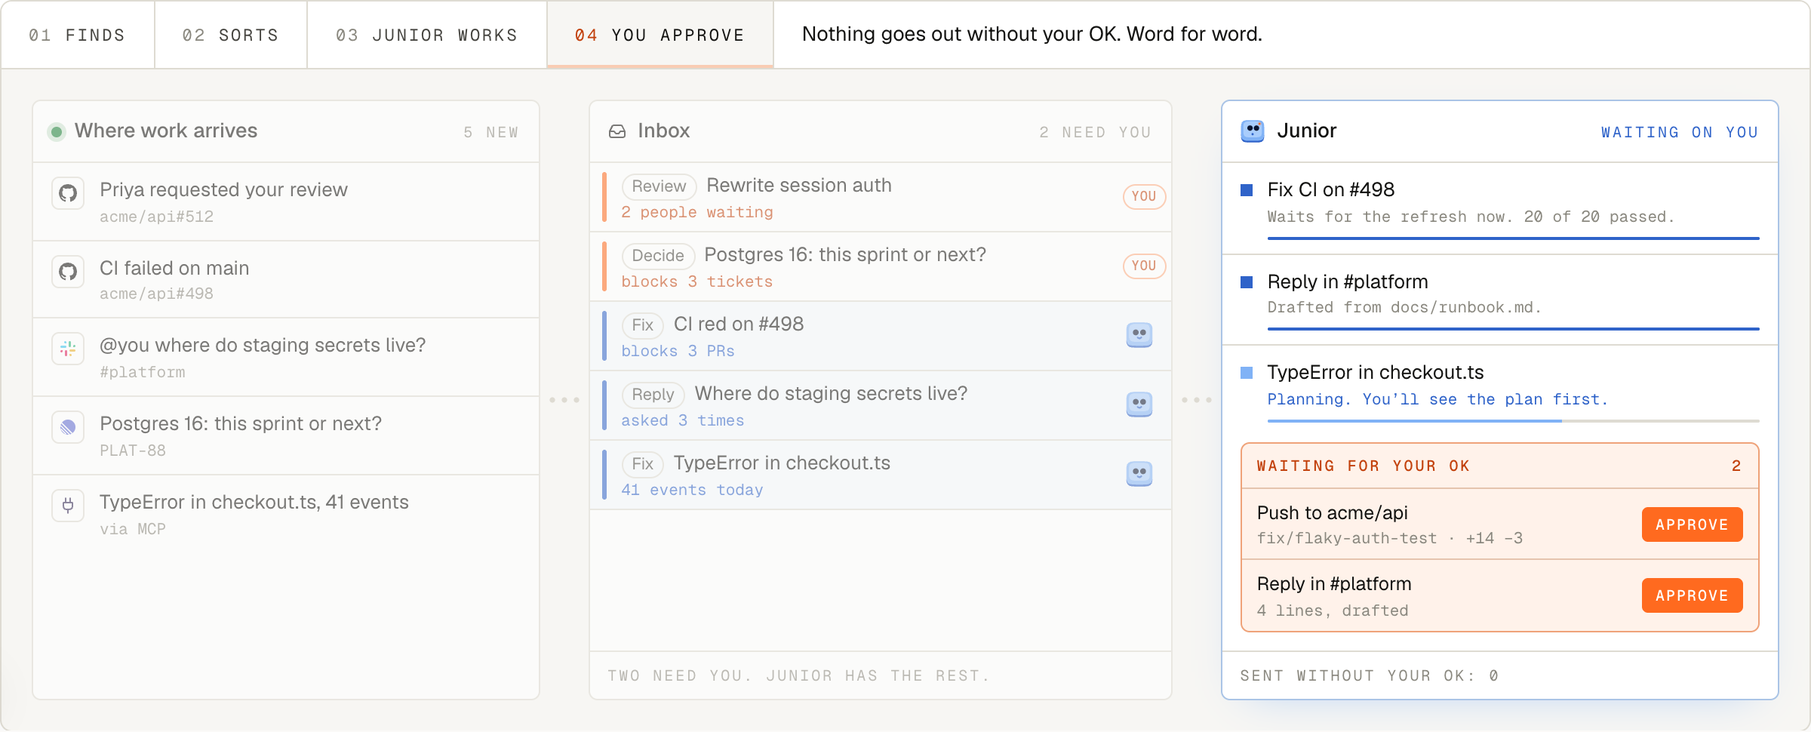
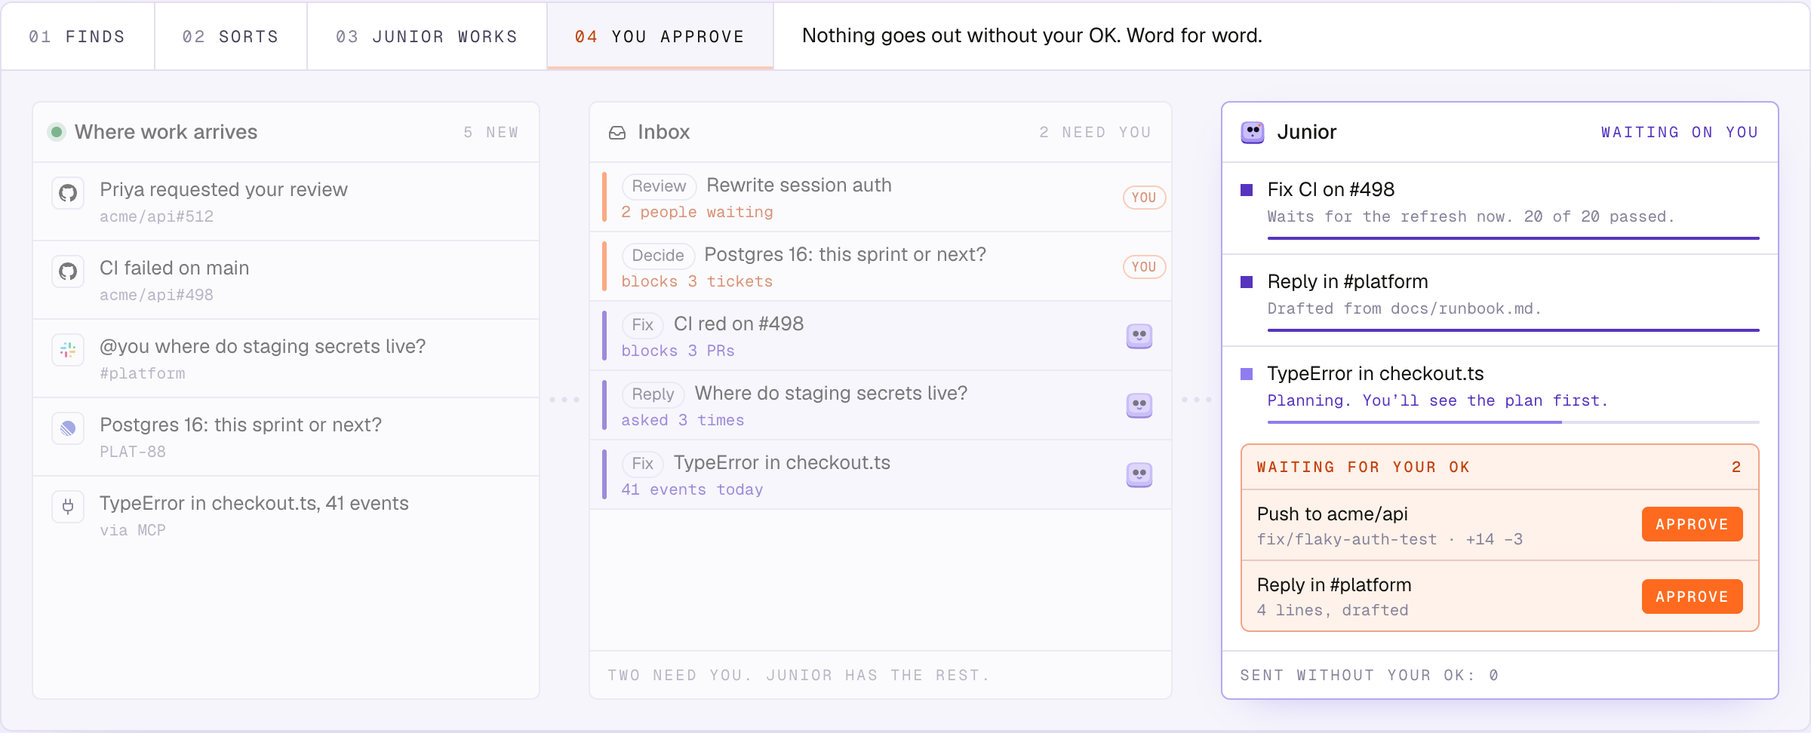
chore: readme update

diff --git a/web/src/components/WaitingButton.tsx b/web/src/components/WaitingButton.tsx
@@ -1,0 +1,60 @@
+/**
+ * The top bar's Waiting button: every chat that is waiting on you (a
+ * permission, a question, a plan, a team card or gate), and the sends held
+ * for your OK. Orange dot when anything waits; click a row to open it.
+ */
+import * as Popover from '@radix-ui/react-popover'
+import { Bell } from 'lucide-react'
+import { useState } from 'react'
+import { usePendingActions } from '../actions.js'
+import { useSessions } from '../hooks.js'
+import { needsYouText } from '../inboxTabs.js'
+
+export function WaitingButton() {
+  const [open, setOpen] = useState(false)
+  const sessions = useSessions()
+  const sends = usePendingActions()
+  const waiting = sessions.flatMap((s) => {
+    const why = needsYouText(s)
+    return why ? [{ s, why }] : []
+  })
+  const count = waiting.length + (sends > 0 ? 1 : 0)
+  const label = count === 0 ? 'Nothing is waiting on you' : `${waiting.length + sends} waiting on you`
+  const go = (hash: string) => {
+    setOpen(false)
+    location.hash = hash
+  }
+
+  return (
+    <Popover.Root open={open} onOpenChange={setOpen}>
+      <Popover.Trigger asChild>
+        <button type="button" className={`topIcon${open ? ' on' : ''}`} title={label} aria-label={label}>
+          <Bell size={15} aria-hidden="true" />
+          {count > 0 && <span className="connDot needs" aria-hidden="true" />}
+        </button>
+      </Popover.Trigger>
+      <Popover.Portal>
+        <Popover.Content className="provPop waitPop" side="bottom" align="end" sideOffset={8} collisionPadding={12}>
+          <div className="head">
+            <span className="lab">Waiting on you</span>
+          </div>
+          {count === 0 && <div className="waitNone">Nothing is waiting on you.</div>}
+          {waiting.map(({ s, why }) => (
+            <button key={s.id} type="button" className="waitRow" onClick={() => go(s.id)}>
+              <span className="dot sm orange" aria-hidden="true" />
+              <span className="t">{s.title}</span>
+              <span className="why">{why}</span>
+            </button>
+          ))}
+          {sends > 0 && (
+            <button type="button" className="waitRow" onClick={() => go('/junior/log')}>
+              <span className="dot sm orange" aria-hidden="true" />
+              <span className="t">{sends === 1 ? '1 send waits for your OK' : `${sends} sends wait for your OK`}</span>
+              <span className="why">Log</span>
+            </button>
+          )}
+        </Popover.Content>
+      </Popover.Portal>
+    </Popover.Root>
+  )
+}

diff --git a/web/src/components/ContextPanel.tsx b/web/src/components/ContextPanel.tsx
@@ -43,7 +43,7 @@ import {
 import { createContext, useContext, useEffect, useRef, useState } from 'react'
 import type { ArtifactWithLinks, Project, ProjectsResponse, SessionSummary, TerminalSummary } from '../../../shared/protocol.js'
 import { INBOX_VIEWS, VIEW_TITLE, type InboxRoute, type InboxView } from '../../../core/work/inbox-views.js'
-import type { Tabs, Views } from '../inboxTabs.js'
+import { needsYouText, type Tabs, type Views } from '../inboxTabs.js'
 import { FormatIcon } from '../artifactFormat.js'
 import { checkoutOf } from '../checkouts.js'
 import { draftTitle, type Draft } from '../drafts.js'
@@ -456,7 +456,13 @@ function SessionRow({ session: s, active, renaming, onSelect, onStartRename, onE
   const wt = co?.kind === 'worktree' ? co : null
   // Ultracode runs going after the turn ended still read as working.
   const shown = shownStatus(s)
-  const dot = <span className={`dot sm ${STATUS_DOT[shown.status]}`} title={shown.title} aria-hidden="true" />
+  // Waiting on you outranks working: the one orange in the list.
+  const needs = needsYouText(s)
+  const dot = needs ? (
+    <span className="dot sm orange" title={`Waiting on you: ${needs}`} aria-hidden="true" />
+  ) : (
+    <span className={`dot sm ${STATUS_DOT[shown.status]}`} title={shown.title} aria-hidden="true" />
+  )
 
   useEffect(() => {
     if (renaming) input.current?.select()
@@ -488,7 +494,7 @@ function SessionRow({ session: s, active, renaming, onSelect, onStartRename, onE
       className={`prow${active ? ' sel' : ''}${wt ? ' wt' : ''}`}
       role="button"
       tabIndex={0}
-      title={[s.title, s.name && `name: ${s.name}`, s.startedBy && 'started by another chat', wt?.path, shown.title].filter(Boolean).join('\n')}
+      title={[s.title, needs && `waiting on you: ${needs}`, s.name && `name: ${s.name}`, s.startedBy && 'started by another chat', wt?.path, shown.title].filter(Boolean).join('\n')}
       onClick={onSelect}
       onKeyDown={(e) => {
         if (e.key === 'Enter' || e.key === ' ') {
@@ -510,6 +516,7 @@ function SessionRow({ session: s, active, renaming, onSelect, onStartRename, onE
       ) : (
         <span className="t">{s.title}</span>
       )}
+      {needs && <span className="needsMark">needs you</span>}
       {s.name && s.name.toLowerCase() !== s.title.toLowerCase() && <span className="nameMark">{s.name}</span>}
       {s.ultracode && <Workflow className="ucMark" size={11} aria-label="Ultracode" />}
       {s.pinned && <Pin className="pinMark" size={11} aria-label="Pinned" />}

diff --git a/web/src/components/TabBand.tsx b/web/src/components/TabBand.tsx
@@ -81,6 +81,8 @@ export type OpenTab = {
   color: string
   /** live: a working session, or a running shell */
   running: boolean
+  /** a chat waiting on you, and for what: "Question", "Permission: Bash" */
+  waiting?: string
   /** the worktree it runs in, as a short branch slug; absent in a project's main folder */
   branch?: string
   /** that worktree has since been removed */
@@ -382,7 +384,7 @@ function Tab({
           aria-selected={active}
           draggable={!!drag}
           className={`tab${active ? ' active' : ''}${tab.preview ? ' preview' : ''}${drag?.dragging ? ' dragging' : ''}`}
-          title={tab.preview ? `${tab.title} — double-click to keep open` : tab.title}
+          title={tab.preview ? `${tab.title} — double-click to keep open` : tab.waiting ? `${tab.title} — waiting on you: ${tab.waiting}` : tab.title}
           onClick={() => onSelect(tab.key)}
           onDoubleClick={() => tab.preview && onPin(tab.key)}
           onAuxClick={(e) => e.button === 1 && close(e)}
@@ -394,8 +396,10 @@ function Tab({
           {drag?.dropEdge === 'before' && <span className="dropline before" aria-hidden="true" />}
           <Icon size={13} aria-hidden="true" />
           <span className={`t${tab.kind === 'draft' ? ' draft' : ''}`}>
-            {dotted && (
-              <span className={`pdot${tab.running ? ' live' : ''}`} style={{ background: tab.color }} aria-hidden="true" />
+            {tab.waiting ? (
+              <span className="pdot needs" aria-label="waiting on you" />
+            ) : (
+              dotted && <span className={`pdot${tab.running ? ' live' : ''}`} style={{ background: tab.color }} aria-hidden="true" />
             )}
             {tab.title}
           </span>

diff --git a/web/src/styles/shell.css b/web/src/styles/shell.css
@@ -166,6 +166,7 @@ kbd { font-family: var(--mono); font-size: 0.8462rem; color: var(--ash); border:
 .topIcon .connDot { position: absolute; right: 4px; top: 4px; width: 6px; height: 6px; border-radius: var(--r-full); background: var(--green); }
 .topIcon .connDot.down { background: var(--red); animation: pulse 1.2s infinite; }
 .topIcon .connDot.connecting { background: var(--yellow); }
+.topIcon .connDot.needs { background: var(--orange); box-shadow: 0 0 0 2px var(--glow-orange); }
 .topIcon:disabled { color: var(--stone); background: transparent; cursor: default; }
 
 /* Junior.app's title bar (desktop.ts): the bar is the window's drag handle,
@@ -342,6 +343,8 @@ kbd { font-family: var(--mono); font-size: 0.8462rem; color: var(--ash); border:
 .tab > svg { flex: none; }
 .tab .t { min-width: 0; overflow: hidden; text-overflow: ellipsis; white-space: nowrap; display: inline-flex; align-items: center; gap: 7px; }
 .tab .pdot { display: inline-block; width: 5px; height: 5px; border-radius: var(--r-full); flex: none; }
+/* A chat waiting on you: the one orange on the strip (needs-you only). */
+.tab .pdot.needs { width: 6px; height: 6px; background: var(--orange); box-shadow: 0 0 0 3px var(--glow-orange); }
 .tab .cl {
   display: inline-flex; align-items: center; justify-content: center; flex: none; margin-left: auto; margin-right: -4px;
   width: 18px; height: 18px; border-radius: var(--r-xs); color: var(--stone); background: transparent; border: 0; padding: 0;

diff --git a/web/src/styles/session.css b/web/src/styles/session.css
@@ -71,6 +71,15 @@
 .provPopOff { display: flex; flex-direction: column; gap: 4px; padding: 9px 15px; border-top: 1px solid var(--hair); font-size: 0.8462rem; color: var(--stone); }
 .provPopOff span { display: inline-flex; align-items: center; gap: 6px; }
 .provPop .foot { display: flex; justify-content: flex-end; padding: 6px 10px 0; border-top: 1px solid var(--hair); }
+.waitPop { width: 320px; }
+.waitNone { padding: 10px 15px 8px; border-top: 1px solid var(--hair); font-size: 0.9231rem; color: var(--ash); }
+.waitRow {
+  display: flex; align-items: center; gap: 9px; width: 100%; padding: 9px 15px; border: 0; border-top: 1px solid var(--hair);
+  background: transparent; color: var(--ink); font: inherit; font-size: 0.9231rem; text-align: left; cursor: pointer;
+}
+.waitRow:hover, .waitRow:focus-visible { background: var(--wash-3); outline: none; }
+.waitRow .t { flex: 1; min-width: 0; overflow: hidden; text-overflow: ellipsis; white-space: nowrap; }
+.waitRow .why { flex: none; max-width: 45%; overflow: hidden; text-overflow: ellipsis; white-space: nowrap; font: 400 0.8462rem var(--mono); color: var(--orange); }
 .provTag { font-size: 0.7692rem; padding: 1px 6px; border-radius: var(--r-full); border: 1px solid var(--hair-strong); color: var(--ash); font-weight: 400; letter-spacing: 0.02em; }
 
 .provUsage { display: flex; flex-direction: column; gap: 7px; }

diff --git a/web/src/components/TopBar.tsx b/web/src/components/TopBar.tsx
@@ -11,6 +11,7 @@ import { Menu, MenuContent, MenuItem, MenuSeparator, MenuTrigger } from '../ui/M
 import { basePath } from '../workspaceUrl.js'
 import { JuniorLogo } from './Logo.js'
 import { ProvidersButton } from './ProvidersButton.js'
+import { WaitingButton } from './WaitingButton.js'
 
 type Props = {
   /** Phone layout: a back button and the page title take the logo's place. */
@@ -147,7 +148,7 @@ export function TopBar({
   )
 }
 
-/** Providers, system status, activity, settings, help, the right end of the bar. */
+/** Waiting, providers, system status, activity, settings, help, the right end of the bar. */
 function SystemIcons({
   workspace,
   conn,
@@ -158,6 +159,7 @@ function SystemIcons({
 }: Pick<Props, 'conn' | 'onOpenSystem' | 'onOpenSettings' | 'settingsOpen' | 'onHelp'> & { workspace: Workspace | undefined }) {
   return (
     <>
+      <WaitingButton />
       {/* a daemon from before providers sends none. It shows once that daemon restarts */}
       {workspace?.providers && <ProvidersButton workspace={workspace} />}
       <button type="button" className="topIcon" title={CONN_TITLE[conn]} onClick={() => onOpenSystem('status')}>

diff --git a/web/src/browser.ts b/web/src/browser.ts
@@ -26,6 +26,7 @@ import type {
 } from '../../shared/protocol.js'
 import { openSettings } from './settings.js'
 import { store } from './store.js'
+import { withWorkspace } from './workspaceUrl.js'
 
 export type BrowserViewport = { width: number; height: number; deviceScaleFactor: number; mobile: boolean }
 export type BrowserPreset = 'fit' | 'desktop' | 'laptop' | 'tablet' | 'mobile'
@@ -179,7 +180,8 @@ export function presetOf(v: BrowserViewport | null | undefined): BrowserPreset |
   return null
 }
 
-export const shotSrc = (sessionId: string, n: number) => `/api/browser/shots/${sessionId}/${n}`
+/** An <img> src: it skips the fetch wrapper, so it names this tab's workspace itself. */
+export const shotSrc = (sessionId: string, n: number) => withWorkspace(`/api/browser/shots/${sessionId}/${n}`)
 
 // ── profiles (machine-wide, the daemon's list) ──────────────────────────────
 

diff --git a/web/src/App.tsx b/web/src/App.tsx
@@ -11,7 +11,7 @@ import { Composer } from './components/Composer.js'
 import { BrowserPane } from './components/BrowserPane.js'
 import { useBrowserOpen, useWindowNarrower } from './browser.js'
 import { PanelCollapseContext, NewTerminalMenu } from './components/ContextPanel.js'
-import { useInboxTabs, useInboxViews, resolveView } from './inboxTabs.js'
+import { needsYouText, useInboxTabs, useInboxViews, resolveView } from './inboxTabs.js'
 import { HelpOverlay } from './components/HelpOverlay.js'
 import { InboxPage } from './components/InboxPage.js'
 import { JuniorPage } from './components/JuniorPage.js'
@@ -400,6 +400,7 @@ export function App() {
                 title: s.title,
                 color: projectColor(s.projectId ?? s.cwd),
                 running: isWorking(s),
+                ...(needsYouText(s) ? { waiting: needsYouText(s)! } : {}),
                 ...worktreeTag(s.checkoutId),
               },
             ]

diff --git a/web/src/inboxTabs.ts b/web/src/inboxTabs.ts
@@ -54,3 +54,16 @@ export function waitingText(s: Pick<SessionSummary, 'waitingOn'>): string {
   if (s.waitingOn === 'ExitPlanMode') return 'Plan to approve'
   return `Permission: ${s.waitingOn.replace(/^mcp__.+?__/, '')}`
 }
+
+/**
+ * What a chat is waiting on you for, or null: a prompt (permission, question,
+ * plan) or, for a team's lead, its card or a gate. The tab, the sidebar row
+ * and the top bar's Waiting list all read this.
+ */
+export function needsYouText(s: Pick<SessionSummary, 'waiting' | 'waitingOn' | 'teamRun'>): string | null {
+  if (s.waiting) return waitingText(s)
+  if (s.teamRun?.role !== 'lead') return null
+  if (s.teamRun.state === 'proposed') return 'Team to approve'
+  if (s.teamRun.state === 'gate') return 'Team waiting at a gate'
+  return null
+}

diff --git a/web/src/styles/panels.css b/web/src/styles/panels.css
@@ -21,6 +21,7 @@
 /* an Ultracode session: a quiet purple mark beside the pin */
 .prow .ucMark { flex: none; color: var(--purple); opacity: 0.85; }
 /* A session's name (/rename), when it differs from its title: how other chats address it. */
+.prow .needsMark { flex: none; font: 500 10px/1 var(--mono); color: var(--orange); }
 .prow .nameMark { flex: none; max-width: 40%; overflow: hidden; text-overflow: ellipsis; white-space: nowrap; font: 400 10px/1 var(--mono); color: var(--stone); }
 .prow.wt .ucMark { margin-top: 1px; }
 .termHome { flex: 1; display: flex; flex-direction: column; align-items: center; justify-content: center; gap: 18px; padding: 40px; position: relative; text-align: center; }

diff --git a/README.md b/README.md
@@ -1,13 +1,11 @@
 <a href="https://usejunior.sh">
-  <picture>
-    <source media="(prefers-color-scheme: dark)" srcset="docs/banner-dark.png">
-    <img src="docs/banner-light.png" alt="Junior. Your junior engineer. On your Mac. Junior takes the work that doesn't need you. Junior's face, a sky-blue key with round eyes and a small smile, looks out from the right." width="100%">
-  </picture>
+  <img src="docs/banner.png" alt="Junior. Runs on your Mac. Asks before anything goes out. A junior engineer for senior engineers. Junior watches GitHub, Slack, Linear and your other tools. It brings you what needs you. Free, open source, runs on your Mac. Junior's face, a lavender key drawn in dots, stands on a dotted ridge on the right." width="100%">
 </a>
 
 <p align="center">
   <a href="#install">Install</a> ·
   <a href="#how-it-works">How it works</a> ·
+  <a href="#the-rules">The rules</a> ·
   <a href="#features">Features</a> ·
   <a href="#fair-questions">FAQ</a> ·
   <a href="#development">Development</a> ·
@@ -15,13 +13,15 @@
 </p>
 
 <p align="center">
-  <a href="https://github.com/usejunior-sh/junior/releases/latest"><img src="https://img.shields.io/github/v/release/usejunior-sh/junior?label=release&color=80b2f6&labelColor=141210" alt="latest release"></a>
-  <img src="https://img.shields.io/badge/macOS-Apple%20silicon%20%C2%B7%20Intel-f8f7f4?labelColor=141210" alt="macOS, Apple silicon or Intel">
-  <img src="https://img.shields.io/badge/runs%20on-Claude%20Code%20%C2%B7%20Codex-a9cdfc?labelColor=141210" alt="runs on Claude Code and Codex">
-  <a href="https://github.com/usejunior-sh/junior/commits/main"><img src="https://img.shields.io/github/last-commit/usejunior-sh/junior?color=f8f7f4&labelColor=141210" alt="last commit"></a>
+  <a href="https://github.com/usejunior-sh/junior/releases/latest"><img src="https://img.shields.io/github/v/release/usejunior-sh/junior?label=release&color=a593f5&labelColor=16131f" alt="latest release"></a>
+  <img src="https://img.shields.io/badge/macOS-Apple%20silicon%20%C2%B7%20Intel-f8f7fc?labelColor=16131f" alt="macOS, Apple silicon or Intel">
+  <img src="https://img.shields.io/badge/runs%20on-Claude%20Code%20%C2%B7%20Codex-cbbffa?labelColor=16131f" alt="runs on Claude Code and Codex">
+  <a href="https://github.com/usejunior-sh/junior/commits/main"><img src="https://img.shields.io/github/last-commit/usejunior-sh/junior?color=f8f7fc&labelColor=16131f" alt="last commit"></a>
 </p>
 
-**Junior is an AI junior engineer for senior engineers. It runs your work inbox, on your Mac.**
+<sub>RUNS ON YOUR MAC. ASKS BEFORE ANYTHING GOES OUT.</sub>
+
+## A junior engineer for senior engineers.
 
 Junior watches GitHub, Slack, Linear and your other tools. It brings you what needs you. It takes the rest, and asks before anything goes out. It runs on your Mac, learns how you work, and needs you a little less each week.
 
@@ -33,16 +33,17 @@ curl -fsSL https://usejunior.sh/install.sh | sh
 
 <sub>Junior was called Triage until October 2026. Same app, one name now. Updating from Triage moves your data from <code>~/.triage</code> to <code>~/.junior</code> on first start.</sub>
 
-<picture>
-  <source media="(prefers-color-scheme: dark)" srcset="docs/flow-dark.png">
-  <img src="docs/flow-light.png" alt="Work arrives from GitHub, Slack, Linear and Sentry. The inbox ranks it: two rows need you, three go to Junior. Junior fixes CI and drafts a reply, then holds the push and the reply for your OK. Sent without your OK: 0." width="100%">
-</picture>
+<img src="docs/flow-light.png" alt="Work arrives from GitHub, Slack, Linear and Sentry. The inbox ranks it: two rows need you, three go to Junior. Junior fixes CI and drafts a reply, then holds the push and the reply for your OK. Sent without your OK: 0." width="100%">
 
 <p align="center"><sub>Example work. Your Tuesday will have more of it.</sub></p>
 
-## One inbox. Two owners.
+## Why Junior
 
-**Junior brings you what needs you. Junior takes what doesn't.** On your Mac, with your tools, and it asks before anything goes out.
+**Junior brings you what needs you. And takes what doesn't.** On your Mac, with your tools, and it asks before anything goes out.
+
+- **Only what needs you.** GitHub, Slack, Linear and anything with an MCP server, in one ranked list. Each item says why it's there. People waiting go to the top.
+- **Junior takes the rest.** Junior fixes, retries and waits on CI. It drafts replies and runs your chores on a schedule. You approve what goes out.
+- **Your Mac, your plan.** Junior runs on your Mac, on the Claude Code or Codex plan you already pay for. No API keys to paste. No bill from us.
 
 Every row in the inbox belongs to you or to Junior.
 
@@ -84,6 +85,17 @@ Nothing goes out without you. Junior plans first and asks before anything goes o
 4. **Junior works on your Mac.** Edits, tests and local commits don't need your OK. They stay on your machine until you say otherwise.
 5. **You approve what goes out.** Pushes, PRs, comments and messages wait for you, word for word. Junior has never posted in #general on its own. It isn't allowed to.
 
+## The rules
+
+**Three rules it can't switch off.** Rename it, change its voice. The rules stay.
+
+1. **It reads back what you ask.** Before it starts, it says what it understood, in a line or two. A misunderstanding costs one message, not an afternoon.
+2. **It asks everything in one message.** No drip of questions. One message, and each question comes with the answer it suggests. Often you just say yes.
+3. **Nothing leaves without your OK.** Pushes, PRs, comments, ticket moves and messages wait for you, word for word. Edits, tests and local commits don't.
+
+> **You:** Bump the deps on api.<br>
+> **Junior:** Reading it back: patch and minor bumps in acme/api, one PR, tests green first.
+
 ## Features
 
 The rest of the job. What happens between the inbox and the push.
@@ -92,13 +104,30 @@ The rest of the job. What happens between the inbox and the push.
 | --- | --- |
 | **Inbox** | GitHub, Slack, Linear and anything with an MCP server, in one ranked list. Each item says why it's there. People waiting go to the top. The ranking is plain rules, not a model's mood. |
 | **Today** | Your morning, already sorted. Junior's morning brief and a shared plan for the day: what's yours, what's Junior's, what's overdue. |
-| **Briefs** | Never open a PR cold. Ask for a brief and start with the context. It reads the diff, the thread and the history, and says where to look first. |
 | **Goals** | Hand over the outcome, not the steps. Give Junior a done-when. It waits on CI and reviewers, fixes and retries, and stops at your budget. |
 | **Jobs** | Chores that do themselves. Standing assignments on a schedule, set up by chatting with Junior. Each one gets a trial run before you turn it on. |
-| **Actions** | Every push, PR, comment and message waits here for your OK, word for word. Autonomy sets how often Junior asks. |
+| **Review nits** | Your PR, minus the nits. It reads the comments on your PR, makes the changes and shows you the diff before it pushes. |
+| **Replies** | Same answers, fewer keystrokes. Junior drafts them. They wait for your OK. |
+| **Briefs** | Never open a PR cold. Ask for a brief and start with the context. It reads the diff, the thread and the history, and says where to look first. |
+| **Log** | Every send waits on a card for your OK, word for word. The log shows what went out and who allowed it. |
 | **Sessions** | Full Claude Code chats, Codex chats too, and real terminals in the same workspace. Junior checks its UI work in a browser pane you can watch. |
 | **Receipts** | Every automated run is a session you can open. "Found nothing" means it looked and found nothing. |
 | **Workspaces** | Work and personal stay apart: separate inbox, jobs, connectors and Claude login. |
+
+## Its face
+
+**Its face says what it's doing.** Eight moods, each one a state. If it looks worried, something needs you.
+
+| Mood | What it means |
+| --- | --- |
+| Hello | Nothing needs you right now. |
+| Listening | You're typing. It's reading. |
+| Thinking | Reading the PR, the logs and the thread. |
+| Working | On it. Nothing has left your Mac. |
+| Needs you | One question, with its suggested answer. |
+| Done | Finished. Anything outbound is waiting for your OK. |
+| Stuck | Something broke. It says what, instead of guessing. |
+| Asleep | Your Mac is asleep. So is Junior. |
 
 ## Over time
 
@@ -131,10 +160,15 @@ Better you read that here than after the install.
 The site has the short answers. These are the long ones.
 
 **Will Junior post as me?**<br>
-Not without your OK. Pushes, PRs, comments and messages wait for you, word for word. Edits, tests and local commits don't need it, because they stay on your Mac. Each chat has an Autonomy setting. The default, "Asks before sending", holds everything outbound in Actions. Destructive commands still ask.
+Not without your OK. PRs, comments, ticket moves and messages wait on a card, word for word. Edits, tests and local commits don't need it, because they stay on your Mac. Two things go without a card, because nobody else sees them yet: a push to your own branch, and a draft PR. A push to the default branch waits like any send. So does a plain force push. Commands that destroy work still ask.
+
+You can also approve a send in advance: one person, one kind of send. "Junior may DM Priya when a PR is ready." Junior proposes these on a card. You add and revoke them in Settings → Approvals.
 
 **Will Junior replace me?**<br>
 It asks before it pushes a branch. You're fine.
+
+**Is Junior its own AI model?**<br>
+No. Junior is Claude Code, or Codex for chats, running with your login. The name, the face and the rules are ours.
 
 **Does it work while my Mac sleeps?**<br>
 No. Junior runs on your Mac and stops when it sleeps, like the rest of us. Junior starts again after a reboot. Scheduled jobs that couldn't run are recorded as missed, not quietly dropped. Quitting the window doesn't stop it either. A LaunchAgent keeps the server up.
@@ -151,10 +185,18 @@ On your Mac, under `~/.junior`. Junior holds no GitHub, Slack or Linear credenti
 **What does it cost?**<br>
 Nothing. Junior is free and open source, under the MIT licence. Junior runs on your own Claude or Codex plan, and each session shows what it cost, in dollars.
 
+**Can it merge PRs?**<br>
+Not today. You merge. Later, for work you've trusted it with, and only when you say so.
+
+**What happens when it gets stuck?**<br>
+It stops and asks, with the answer it suggests. Its face says Stuck, so you'll notice before standup.
+
 **Why install from Terminal?**<br>
 The app isn't notarized by Apple yet, so a browser download would get blocked. The script installs it properly. [Read install.sh first](install.sh). We would.
 
 ## Install
+
+**Let Junior do the triage.** One line installs it. Free and open source, on the Claude Code or Codex plan you already pay for. No account, no card.
 
 ```sh
 curl -fsSL https://usejunior.sh/install.sh | sh
